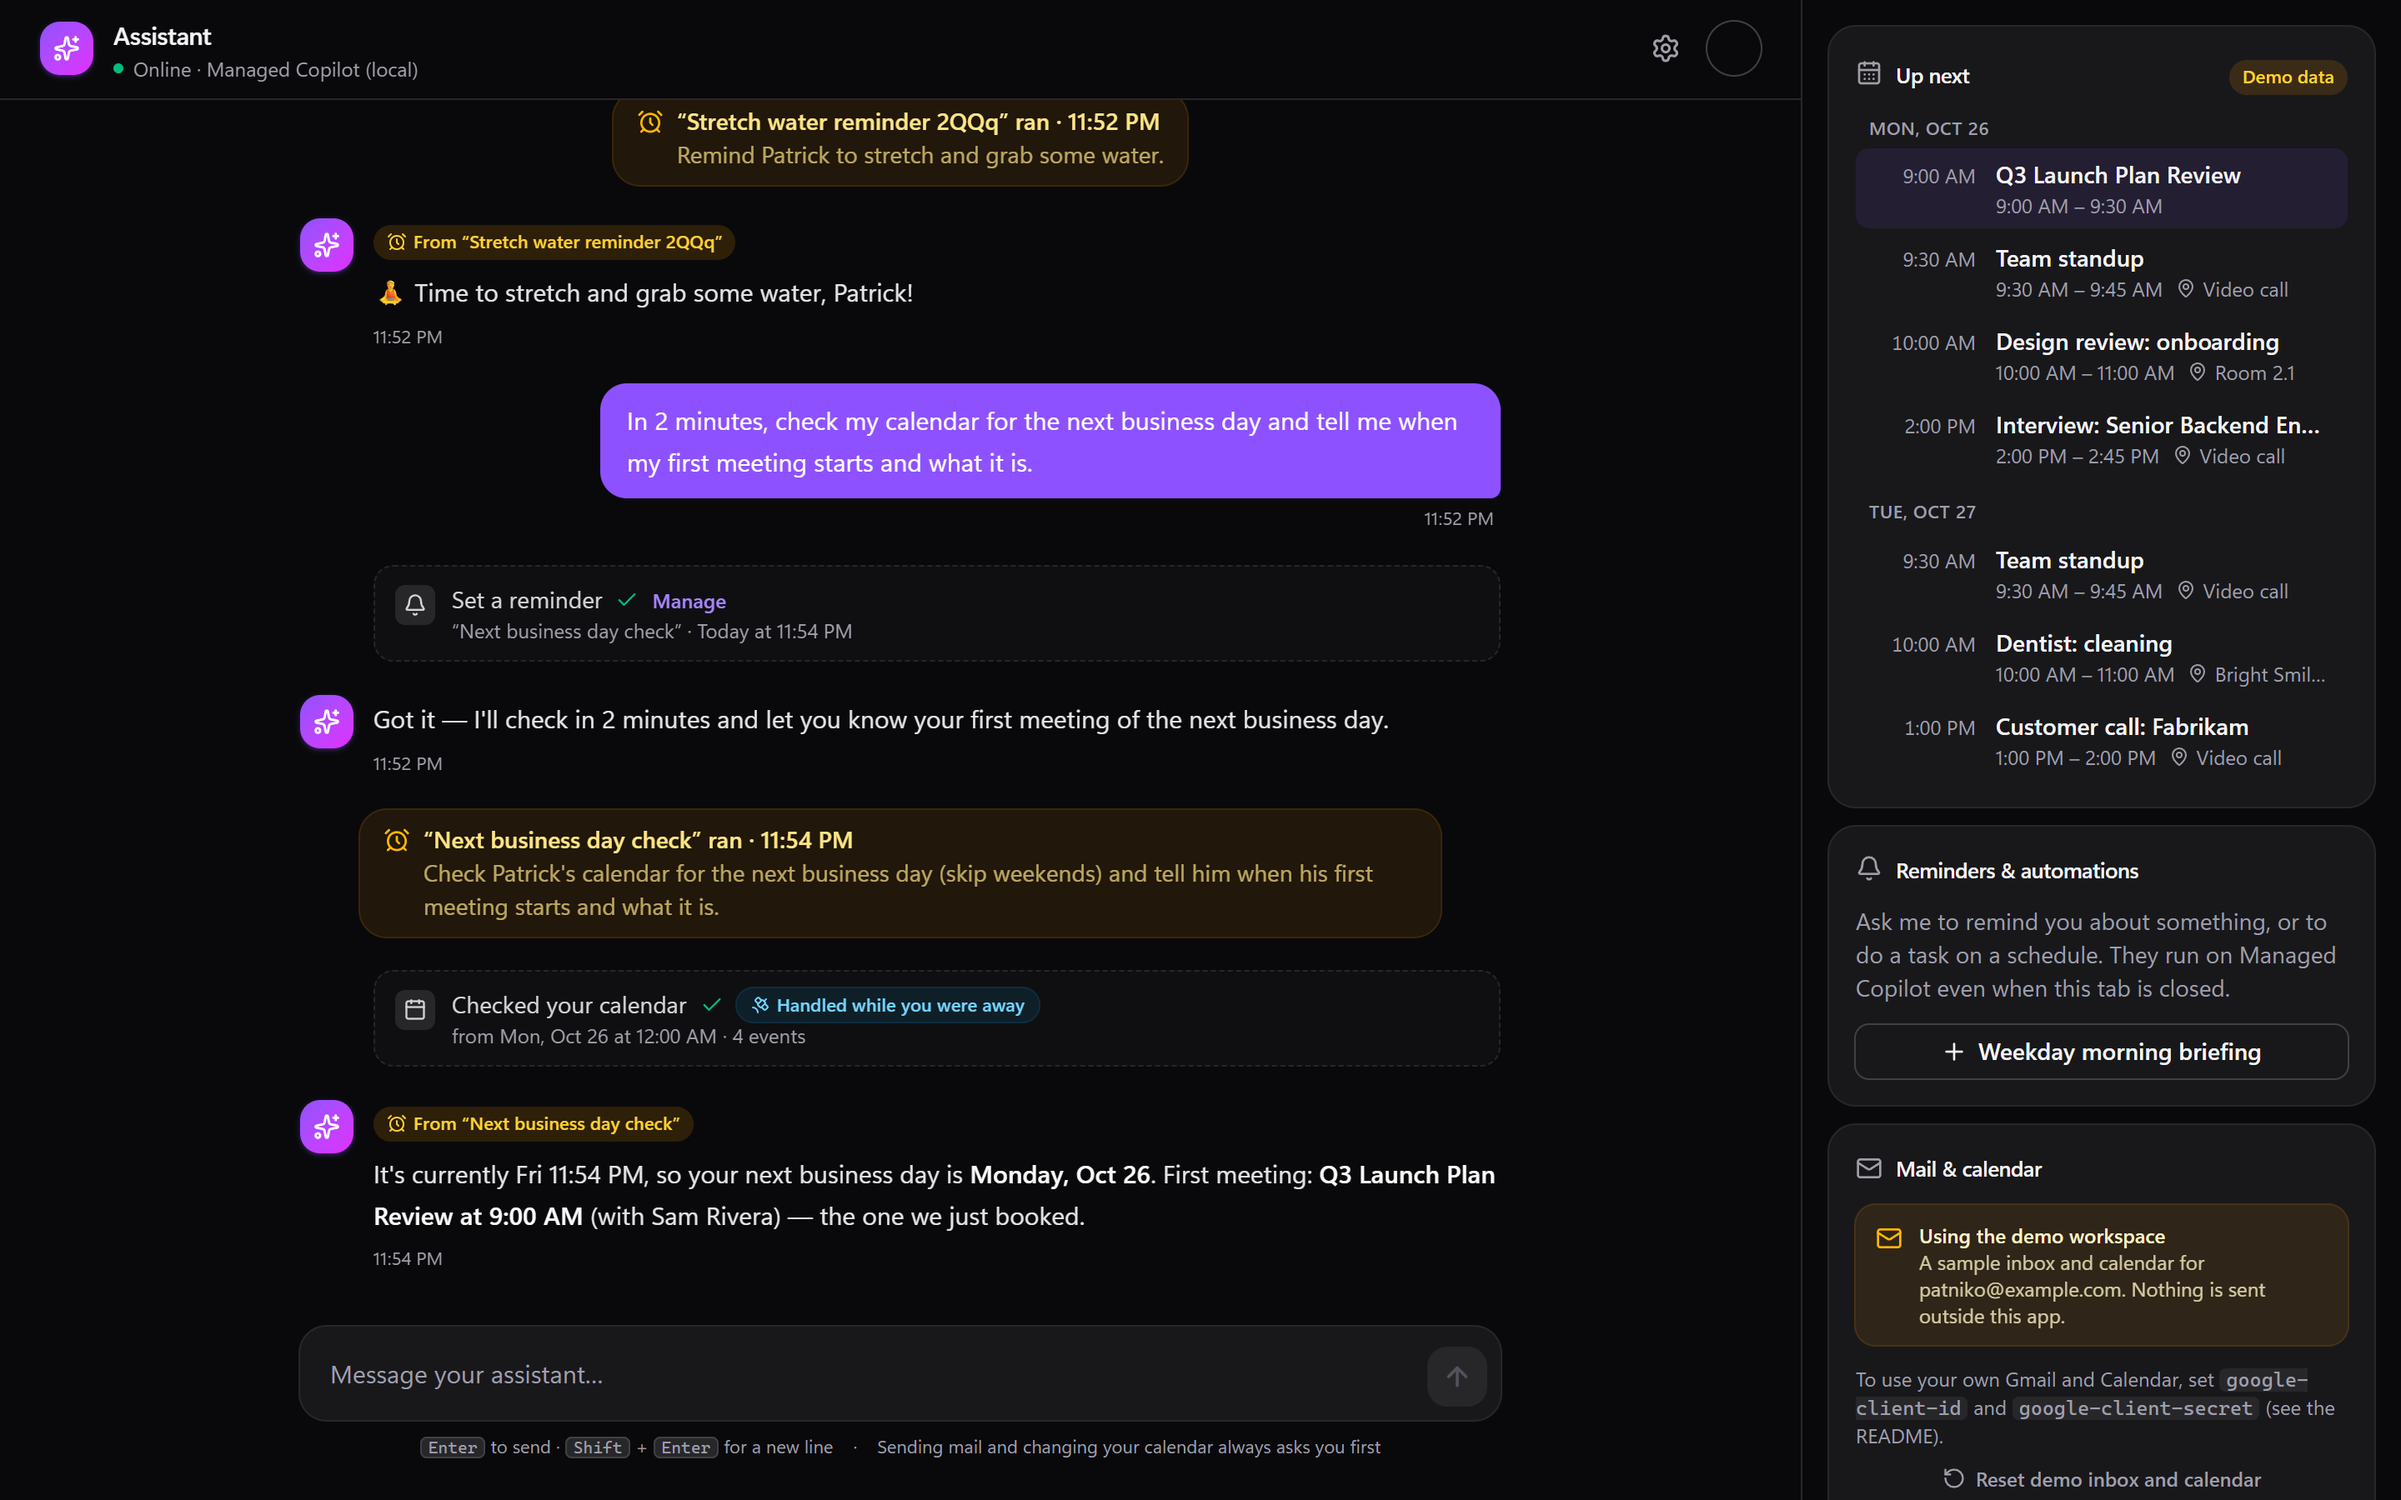
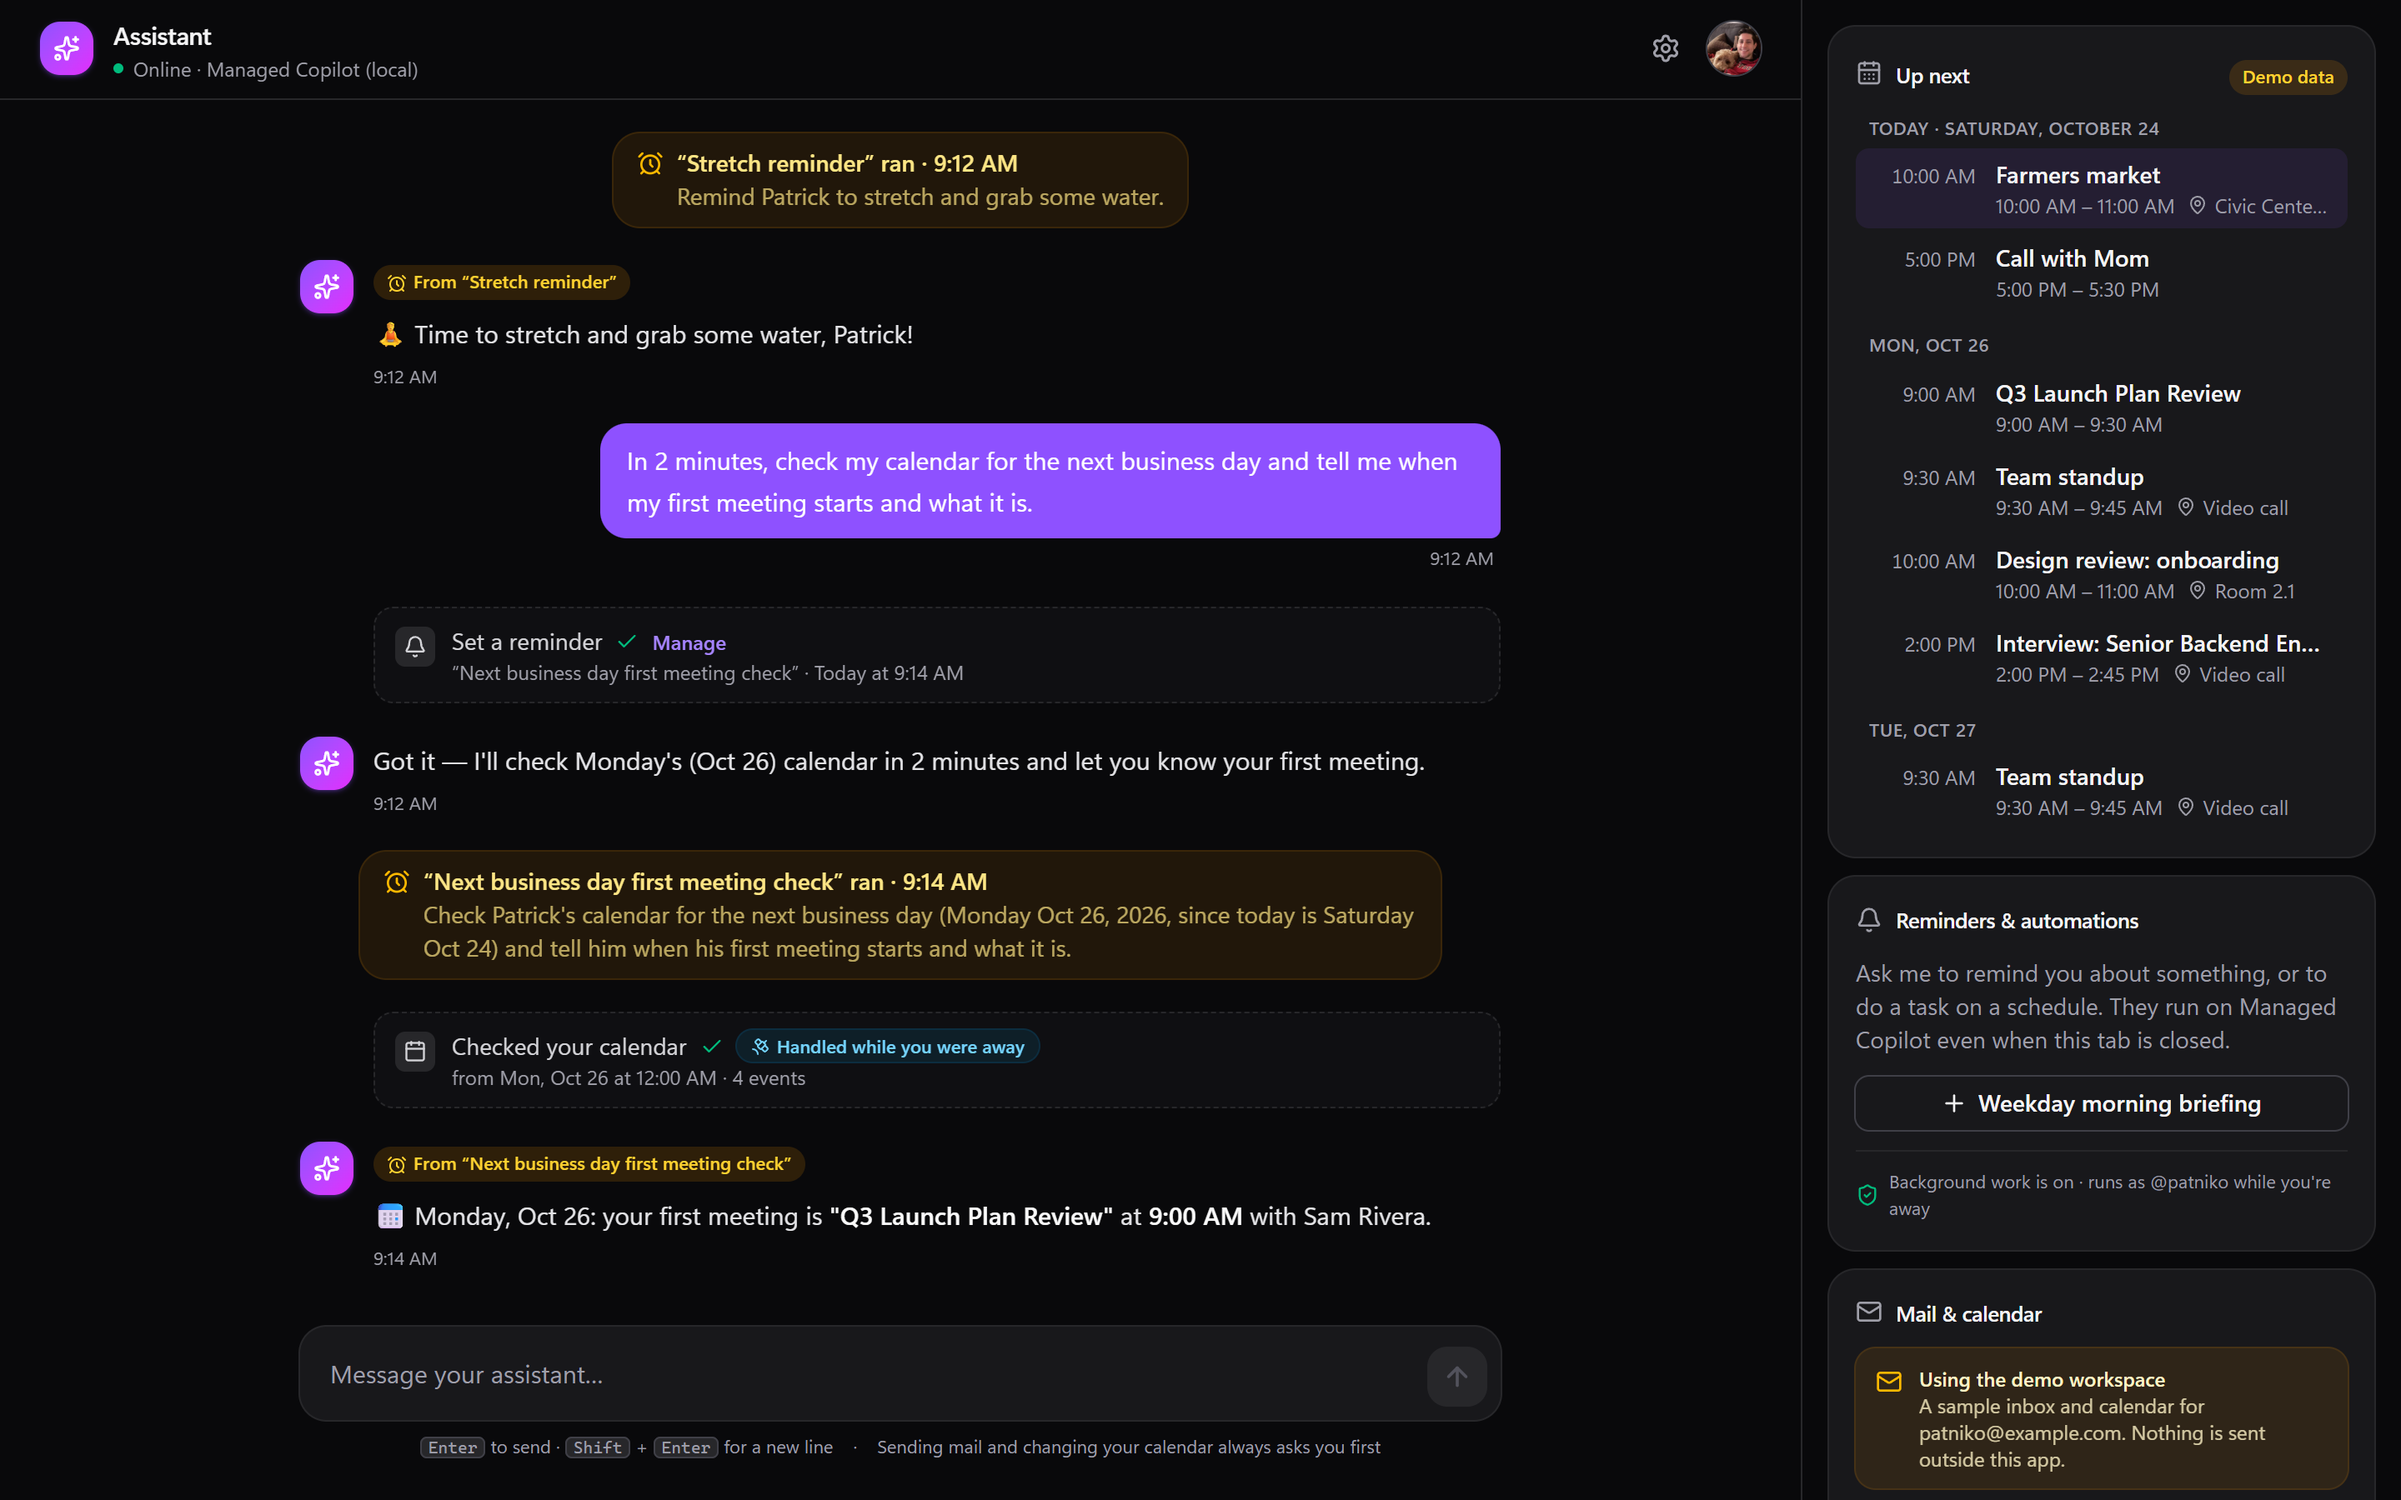
Refresh the assistant's screenshots, including background work
Regenerated by the happy path (--fresh --reminder --offline
--enable-background --screenshots) against the live platform: the new
background.png shows the side panel's consent card on a fresh deployment.

diff --git a/demos/assistant/README.md b/demos/assistant/README.md
@@ -23,7 +23,11 @@ only from the stock `@github/copilot-sdk` and `@managed-copilot/sdk`.
   </tr>
   <tr>
     <td><img src="docs/screenshots/offline.png" alt="A scheduled check-in whose calendar lookup was handled while no tab was open"></td>
+    <td><img src="docs/screenshots/background.png" alt="The side panel asking to turn on background work, with what that means"></td>
+  </tr>
+  <tr>
     <td><img src="docs/screenshots/dark.png" alt="The assistant in dark mode"></td>
+    <td><img src="docs/screenshots/mobile.png" alt="The assistant on a phone"></td>
   </tr>
 </table>
 
